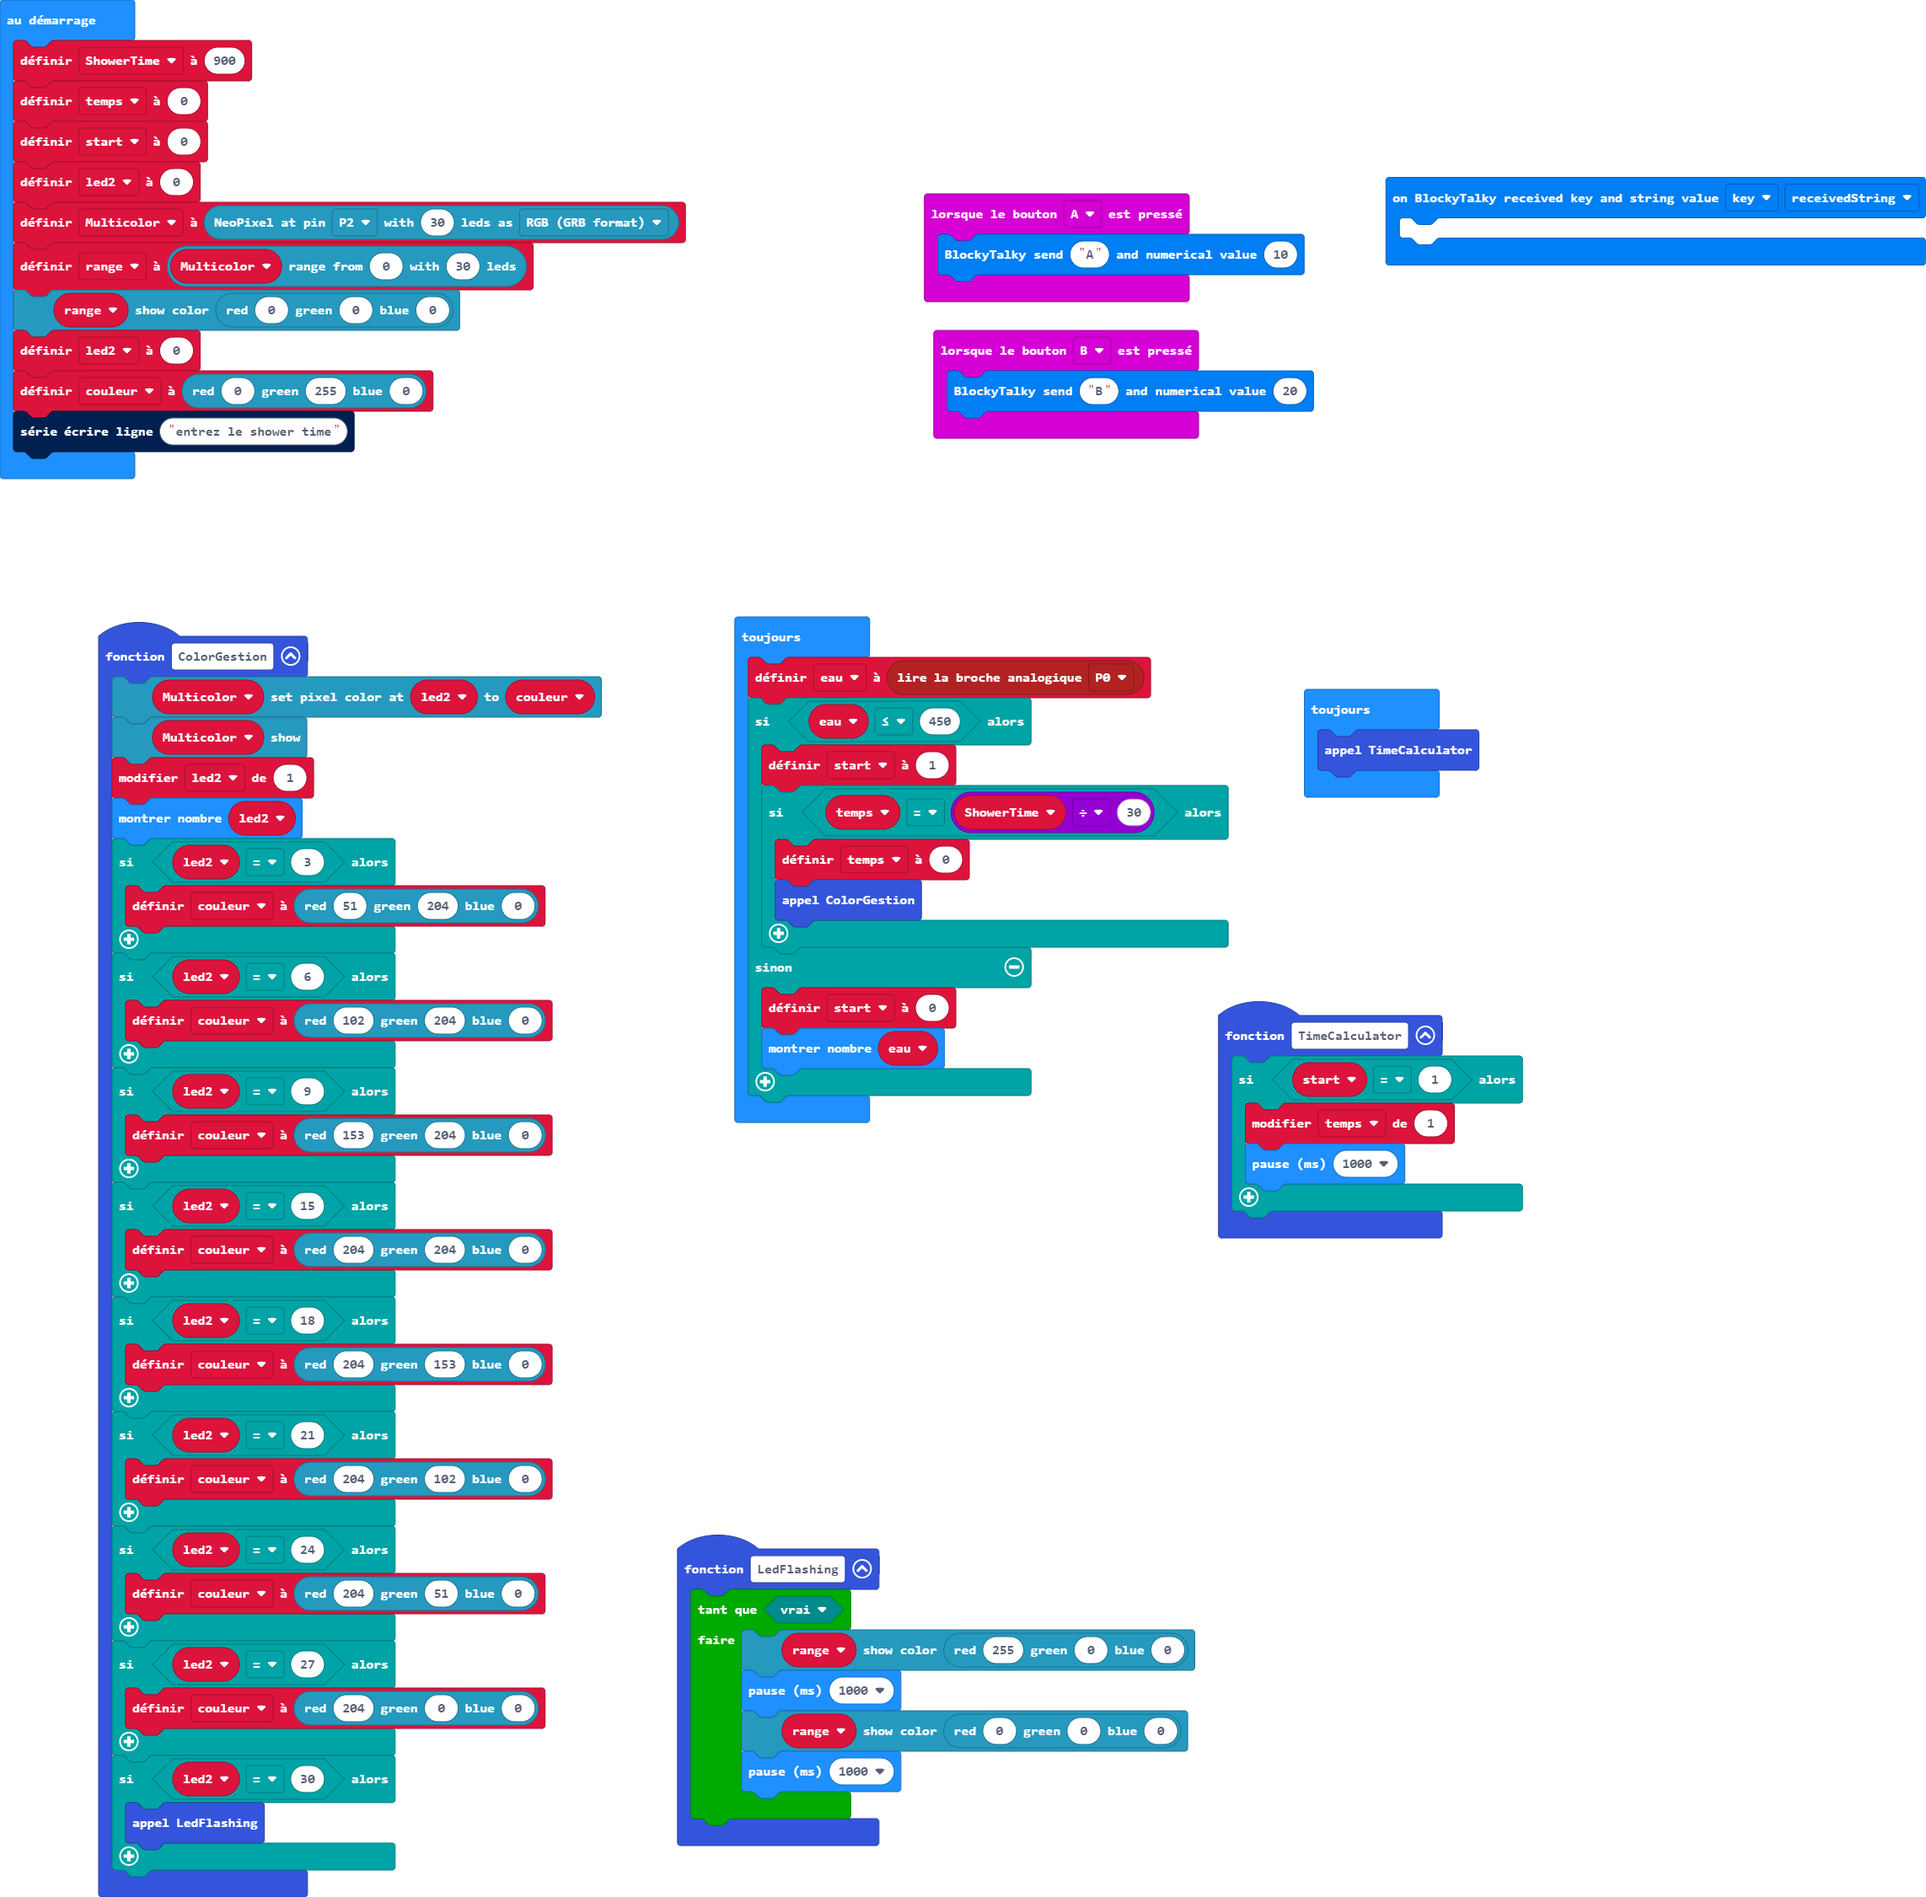
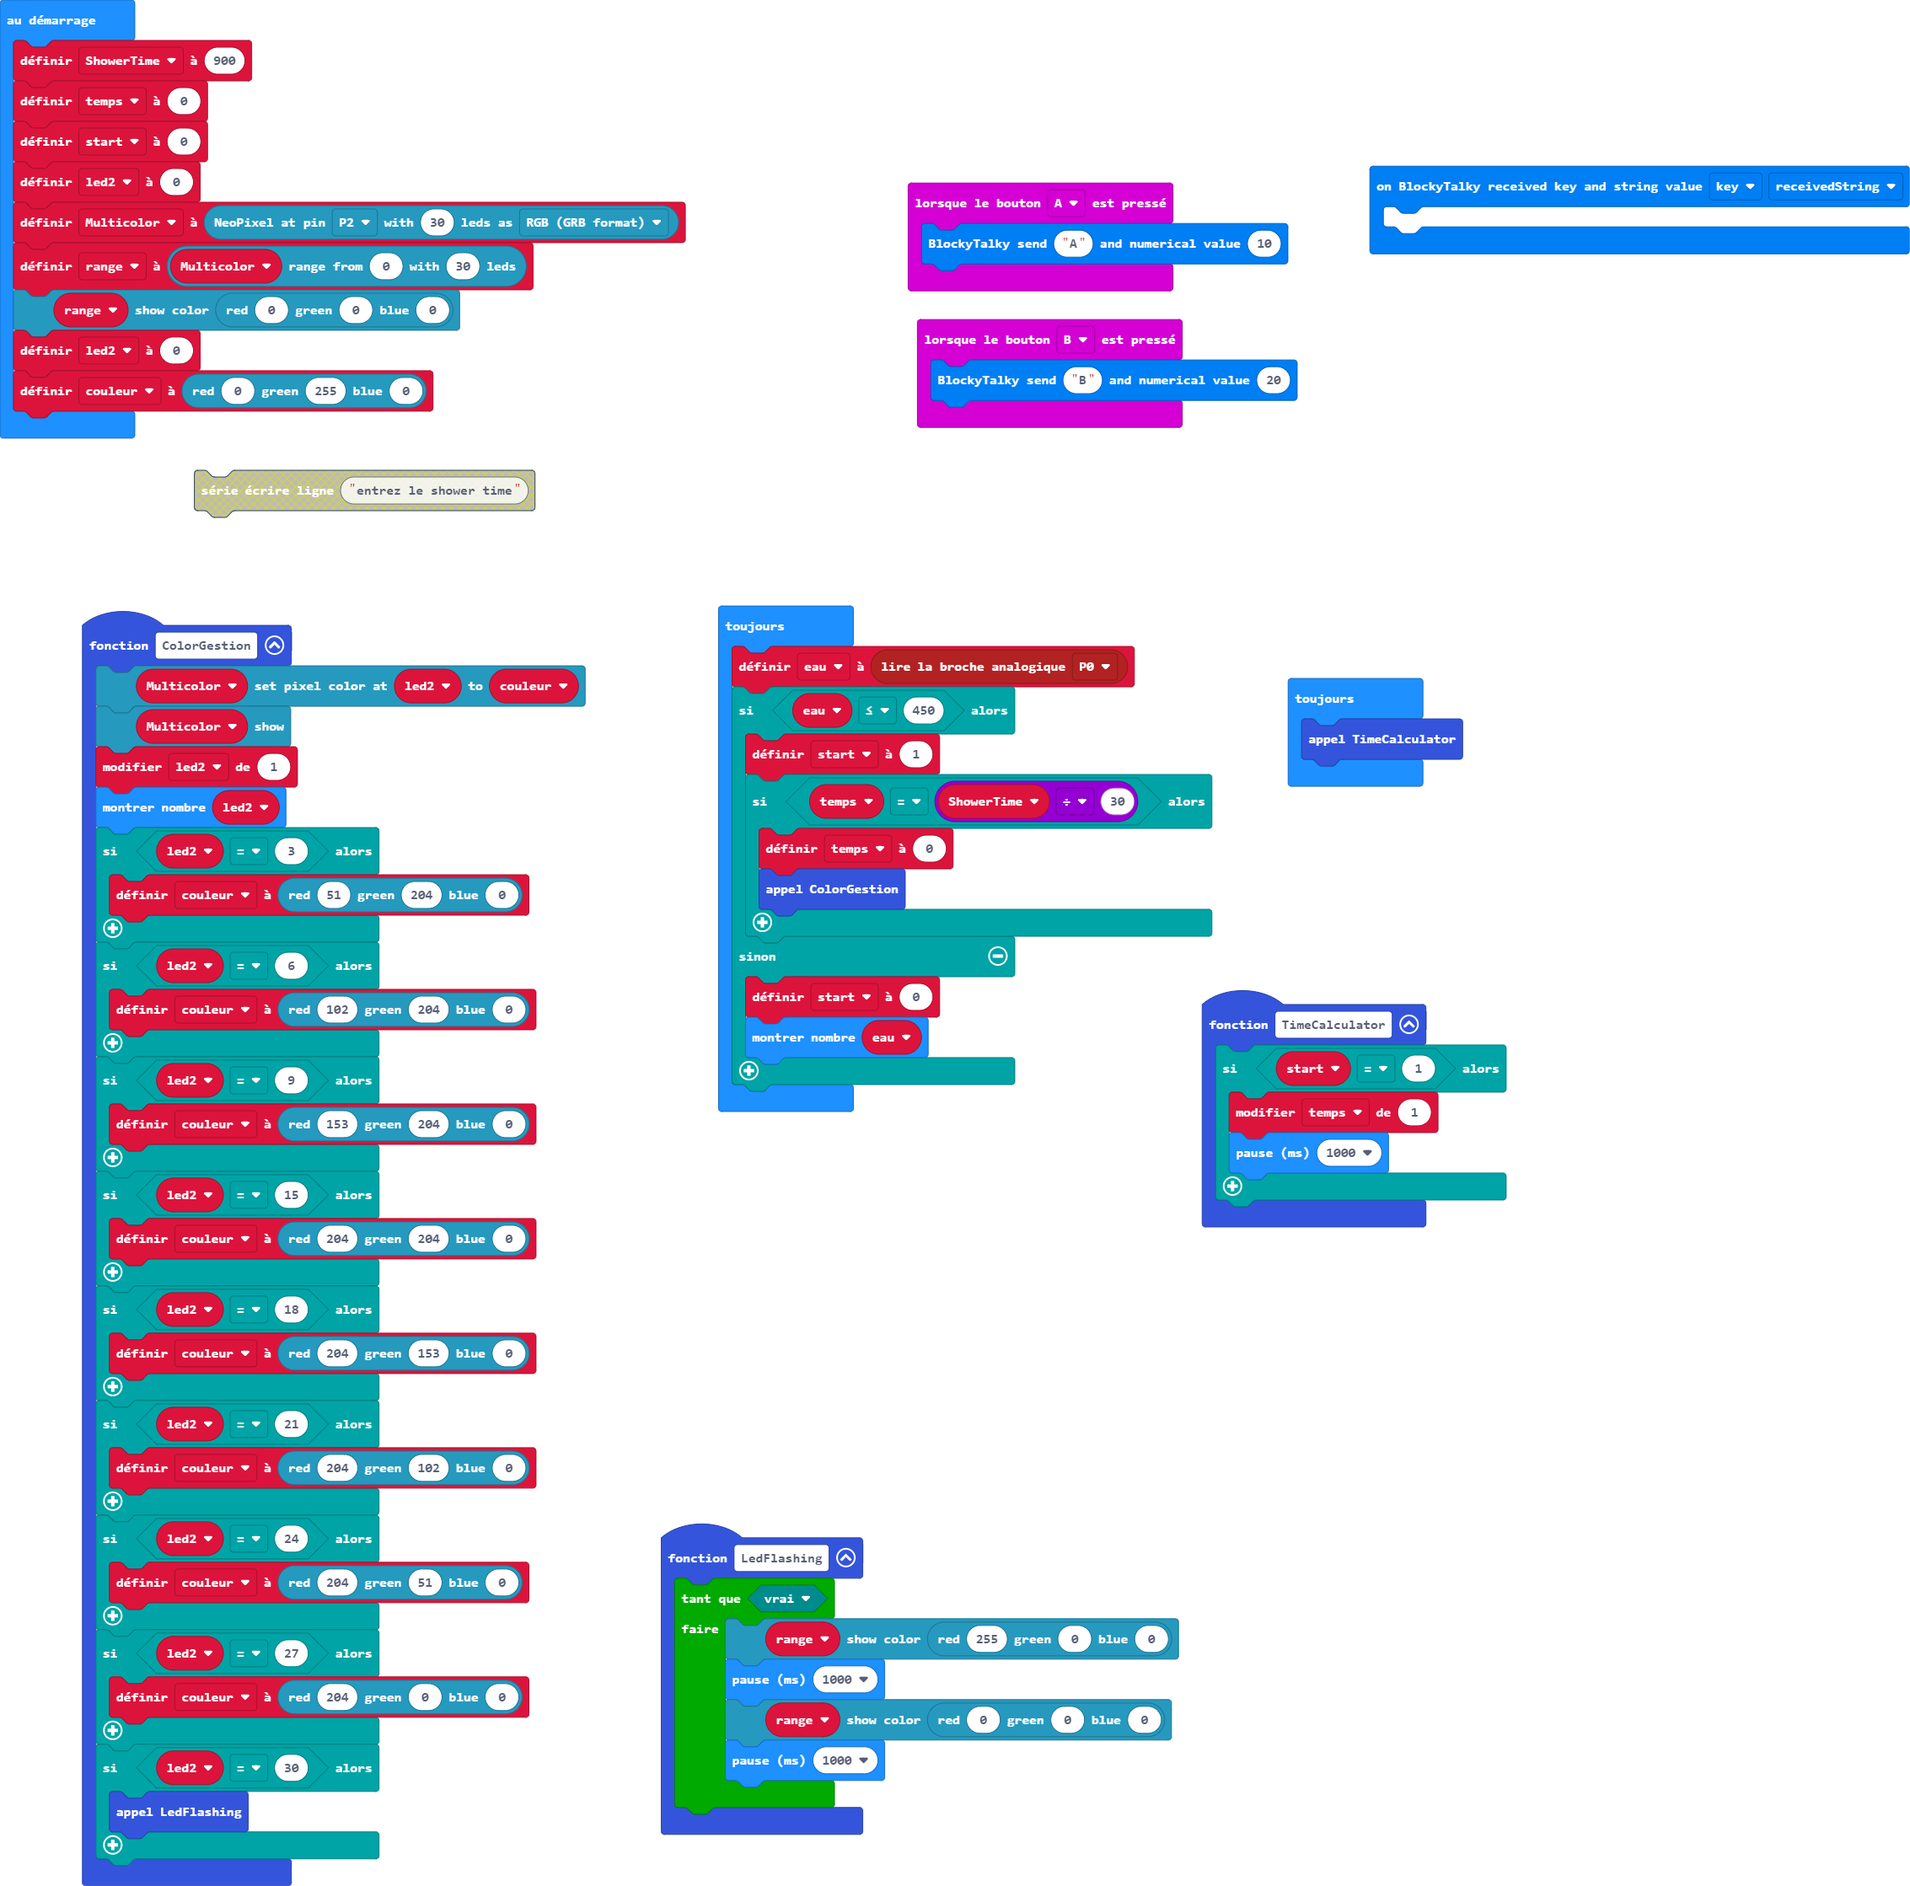
Mise à jour pxt.json, main.blocks, main.ts

diff --git a/main.ts b/main.ts
@@ -69,7 +69,6 @@ range = Multicolor.range(0, 30)
 range.showColor(neopixel.rgb(0, 0, 0))
 led2 = 0
 couleur = neopixel.rgb(0, 255, 0)
-serial.writeLine("entrez le shower time")
 basic.forever(function () {
     eau = pins.analogReadPin(AnalogPin.P0)
     if (eau <= 450) {
